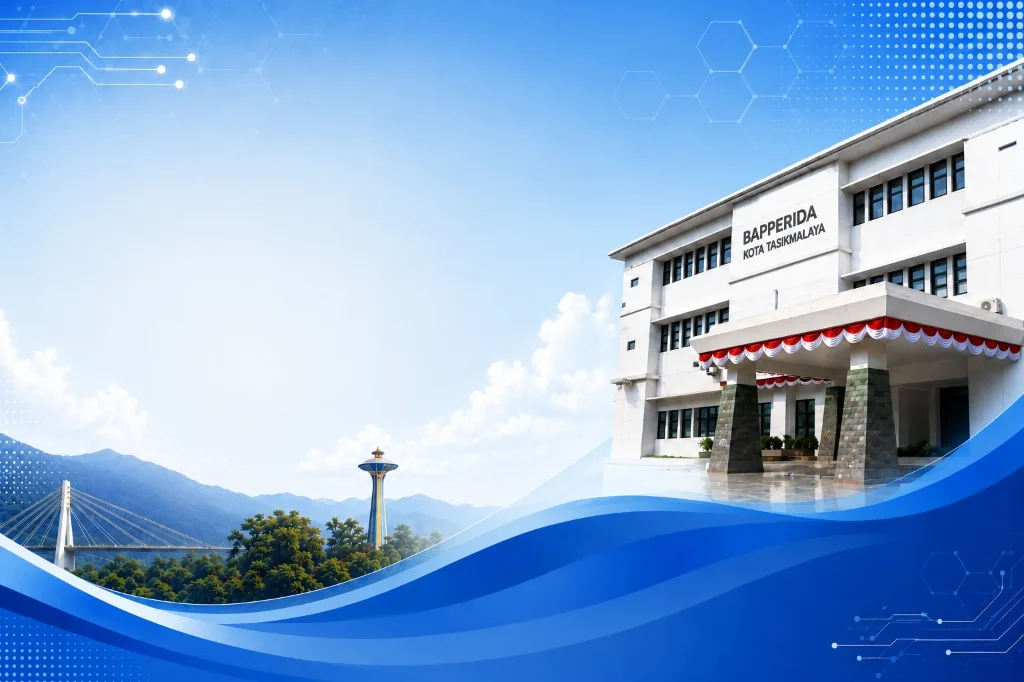
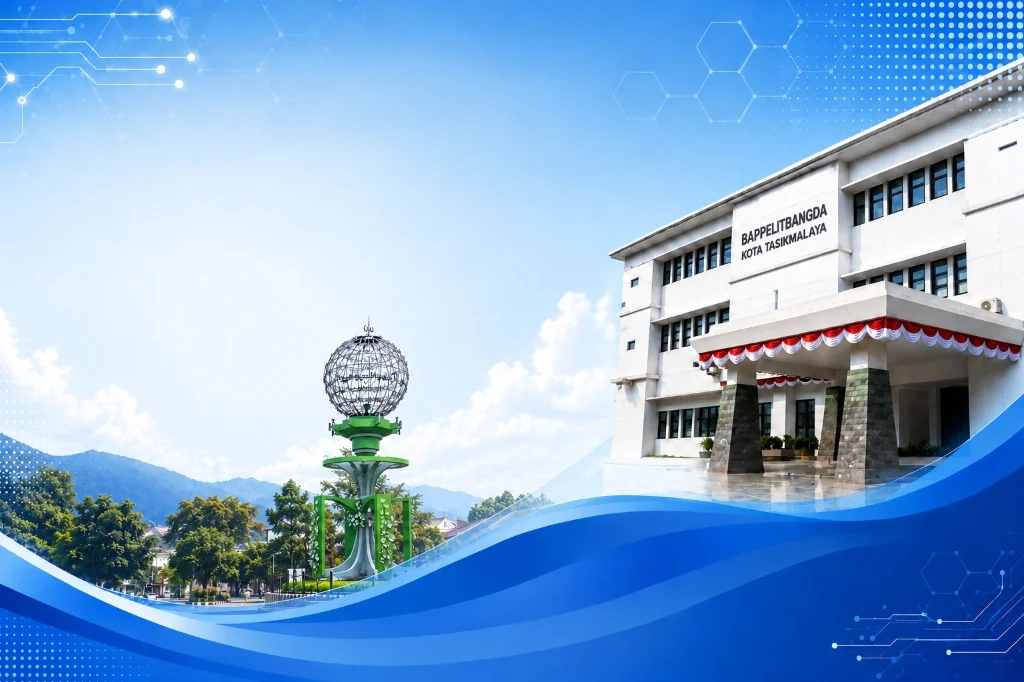
feat(ui): perbarui gambar background hero Bappelitbangda dan ubah seluruh penyebutan Bapperida menjadi Bappelitbangda

diff --git a/resources/views/user/tentang.blade.php b/resources/views/user/tentang.blade.php
@@ -210,7 +210,7 @@
             </h1>
 
             <p class="text-slate-500 text-sm sm:text-base leading-relaxed max-w-2xl mx-auto">
-                Platform integrasi publikasi riset, inovasi daerah, capaian indikator makro, dan penerapan Teknologi Tepat Guna (TTG) Bapperida Kota Tasikmalaya.
+                Platform integrasi publikasi riset, inovasi daerah, capaian indikator makro, dan penerapan Teknologi Tepat Guna (TTG) Bappelitbangda Kota Tasikmalaya.
             </p>
         </div>
 
@@ -285,11 +285,11 @@
                 </h2>
                 
                 <p class="text-slate-600 text-xs sm:text-sm leading-relaxed text-justify">
-                    <strong class="text-slate-800">SI RINOVA (Sistem Informasi Riset dan Inovasi)</strong> adalah wadah publikasi dan informasi terpadu Bapperida Kota Tasikmalaya yang dirancang untuk memfasilitasi riset ilmiah, dokumen kebijakan, data indikator makro, penerapan inovasi daerah, serta pelaksanaan kompetisi teknologi tepat guna.
+                    <strong class="text-slate-800">SI RINOVA (Sistem Informasi Riset dan Inovasi)</strong> adalah wadah publikasi dan informasi terpadu Bappelitbangda Kota Tasikmalaya yang dirancang untuk memfasilitasi riset ilmiah, dokumen kebijakan, data indikator makro, penerapan inovasi daerah, serta pelaksanaan kompetisi teknologi tepat guna.
                 </p>
 
                 <p class="text-slate-600 text-xs sm:text-sm leading-relaxed text-justify">
-                    Platform ini menyajikan enam menu layanan utama: <span class="text-[#00A3E0] font-semibold">Capaian Indikator Makro</span>, <span class="text-[#00A3E0] font-semibold">Katalog Alat Teknologi Tepat Guna (TTG)</span>, <span class="text-[#00A3E0] font-semibold">Repositori E-Book Kajian</span>, <span class="text-[#00A3E0] font-semibold">Naskah Telaahan Staf</span>, <span class="text-[#00A3E0] font-semibold">Dokumentasi Galeri Kegiatan</span>, serta <span class="text-amber-600 font-semibold">Pendaftaran Lomba Inovasi TTG</span> Bapperida Kota Tasikmalaya.
+                    Platform ini menyajikan enam menu layanan utama: <span class="text-[#00A3E0] font-semibold">Capaian Indikator Makro</span>, <span class="text-[#00A3E0] font-semibold">Katalog Alat Teknologi Tepat Guna (TTG)</span>, <span class="text-[#00A3E0] font-semibold">Repositori E-Book Kajian</span>, <span class="text-[#00A3E0] font-semibold">Naskah Telaahan Staf</span>, <span class="text-[#00A3E0] font-semibold">Dokumentasi Galeri Kegiatan</span>, serta <span class="text-amber-600 font-semibold">Pendaftaran Lomba Inovasi TTG</span> Bappelitbangda Kota Tasikmalaya.
                 </p>
 
                 <!-- Feature Badges -->
@@ -569,7 +569,7 @@
 
                 <div class="space-y-2">
                     <!-- Alamat -->
-                    <a href="https://maps.google.com/?q=BAPPERIDA+KOTA+TASIKMALAYA" target="_blank"
+                    <a href="https://maps.google.com/?q=BAPPELITBANGDA+KOTA+TASIKMALAYA" target="_blank"
                        class="flex items-start gap-3.5 p-2.5 -mx-2 rounded-2xl hover:bg-sky-50/70 border border-transparent hover:border-sky-100 transition-all duration-300 group">
                         <div class="w-9 h-9 bg-sky-50 group-hover:bg-[#00A3E0] rounded-xl flex items-center justify-center text-[#00A3E0] group-hover:text-white shrink-0 transition-colors">
                             <span class="material-symbols-outlined text-lg">location_on</span>
@@ -605,7 +605,7 @@
                     </a>
 
                     <!-- WhatsApp -->
-                    <a href="https://wa.me/6281393515410?text=Halo%20Bapperida%20Kota%20Tasikmalaya," target="_blank"
+                    <a href="https://wa.me/6281393515410?text=Halo%20Bappelitbangda%20Kota%20Tasikmalaya," target="_blank"
                        class="flex items-start gap-3.5 p-2.5 -mx-2 rounded-2xl hover:bg-emerald-50/70 border border-transparent hover:border-emerald-100 transition-all duration-300 group">
                         <div class="w-9 h-9 bg-emerald-50 group-hover:bg-emerald-600 rounded-xl flex items-center justify-center text-emerald-600 group-hover:text-white shrink-0 transition-colors">
                             <svg class="w-4 h-4 fill-current" viewBox="0 0 24 24">
@@ -637,7 +637,7 @@
             <!-- Right Google Map Panel -->
             <div class="lg:col-span-7 bg-white rounded-3xl border border-slate-100 overflow-hidden shadow-[0_4px_20px_rgba(0,0,0,0.02)] min-h-[360px] relative reveal-right">
                 <iframe
-                    src="https://maps.google.com/maps?q=BAPPERIDA+KOTA+TASIKMALAYA,+Jl.+Ir.+H.+Juanda+No.191,+Bungursari,+Kota+Tasikmalaya&t=&z=16&ie=UTF8&iwloc=&output=embed"
+                    src="https://maps.google.com/maps?q=BAPPELITBANGDA+KOTA+TASIKMALAYA,+Jl.+Ir.+H.+Juanda+No.191,+Bungursari,+Kota+Tasikmalaya&t=&z=16&ie=UTF8&iwloc=&output=embed"
                     class="w-full h-full min-h-[360px] border-0"
                     allowfullscreen=""
                     loading="lazy"

diff --git a/resources/views/partials/footer.blade.php b/resources/views/partials/footer.blade.php
@@ -11,7 +11,7 @@
                 </span>
             </a>
             <p class="text-slate-500 leading-relaxed">
-                Bapperida Kota Tasikmalaya. Mendorong inovasi dan penerapan Teknologi Tepat Guna untuk
+                Bappelitbangda Kota Tasikmalaya. Mendorong inovasi dan penerapan Teknologi Tepat Guna untuk
                 kesejahteraan masyarakat.
             </p>
         </div>
@@ -86,7 +86,7 @@
             iconClass: 'bg-emerald-50 text-emerald-600',
             html: `
                 <div class="space-y-3">
-                    <p class="text-slate-600">Bapperida Kota Tasikmalaya berkomitmen penuh melindungi hak privasi setiap pengunjung portal SI RINOVA.</p>
+                    <p class="text-slate-600">Bappelitbangda Kota Tasikmalaya berkomitmen penuh melindungi hak privasi setiap pengunjung portal SI RINOVA.</p>
                     <div class="p-3.5 bg-emerald-50/60 border border-emerald-100 rounded-2xl space-y-1">
                         <strong class="text-emerald-800 block text-xs">1. Pengumpulan Informasi</strong>
                         <p class="text-slate-600 text-[11px] leading-relaxed">Informasi identitas (Nama, Email, Nomor WhatsApp) yang Anda berikan melalui formulir Kirim Pesan semata-mata digunakan untuk keperluan tindak lanjut komunikasi kedinasan dan konsultasi inovasi daerah.</p>
@@ -112,7 +112,7 @@
                     <p class="text-slate-600">Dengan mengakses portal SI RINOVA Kota Tasikmalaya, Anda menyetujui ketentuan pemanfaatan data berikut:</p>
                     <div class="p-3.5 bg-sky-50/60 border border-sky-100 rounded-2xl space-y-1">
                         <strong class="text-sky-900 block text-xs">1. Hak Cipta & Hak Kekayaan Intelektual</strong>
-                        <p class="text-slate-600 text-[11px] leading-relaxed">Inovasi Teknologi Tepat Guna (TTG) yang tercantum merupakan hak milik intelektual inovator bersangkutan yang difasilitasi dan dipublikasikan oleh Bapperida Kota Tasikmalaya.</p>
+                        <p class="text-slate-600 text-[11px] leading-relaxed">Inovasi Teknologi Tepat Guna (TTG) yang tercantum merupakan hak milik intelektual inovator bersangkutan yang difasilitasi dan dipublikasikan oleh Bappelitbangda Kota Tasikmalaya.</p>
                     </div>
                     <div class="p-3.5 bg-slate-50 border border-slate-100 rounded-2xl space-y-1">
                         <strong class="text-slate-800 block text-xs">2. Sitasi & Referensi Publikasi</strong>
@@ -151,7 +151,7 @@
                             <span class="material-symbols-outlined text-sm text-[#00A3E0]">send</span>
                             Ingin konsultasi atau mengajukan inovasi?
                         </strong>
-                        <p class="text-slate-600 text-[11px] leading-relaxed">Silakan kirimkan pesan melalui menu <a href="{{ route('public.tentang') }}#form-pesan" class="text-[#00A3E0] font-bold hover:underline" onclick="closeFooterModal()">Kirim Pesan</a> atau hubungi kontak resmi Bapperida Kota Tasikmalaya.</p>
+                        <p class="text-slate-600 text-[11px] leading-relaxed">Silakan kirimkan pesan melalui menu <a href="{{ route('public.tentang') }}#form-pesan" class="text-[#00A3E0] font-bold hover:underline" onclick="closeFooterModal()">Kirim Pesan</a> atau hubungi kontak resmi Bappelitbangda Kota Tasikmalaya.</p>
                     </div>
                 </div>
             `

diff --git a/resources/views/user/welcome.blade.php b/resources/views/user/welcome.blade.php
@@ -6,11 +6,11 @@
     <meta content="width=device-width, initial-scale=1.0" name="viewport">
     <title>SI RINOVA - Kota Tasikmalaya</title>
     <meta name="description"
-        content="Katalog Resmi Teknologi Tepat Guna (TTG) Bapperida Kota Tasikmalaya. Mendorong inovasi untuk masyarakat.">
+        content="Katalog Resmi Teknologi Tepat Guna (TTG) Bappelitbangda Kota Tasikmalaya. Mendorong inovasi untuk masyarakat.">
 
     <!-- OpenGraph Meta Tags (WhatsApp, Facebook, Twitter Sharing) -->
-    <meta property="og:title" content="SI-RINOVA - Bapperida Kota Tasikmalaya">
-    <meta property="og:description" content="Sistem Informasi Riset, Indikator Makro, Katalog & Lomba Inovasi TTG, Repositori Kajian, serta Inovasi Bapperida Kota Tasikmalaya.">
+    <meta property="og:title" content="SI-RINOVA - Bappelitbangda Kota Tasikmalaya">
+    <meta property="og:description" content="Sistem Informasi Riset, Indikator Makro, Katalog & Lomba Inovasi TTG, Repositori Kajian, serta Inovasi Bappelitbangda Kota Tasikmalaya.">
     <meta property="og:image" content="{{ asset('storage/images/bappelitbangda_building.png') }}">
     <meta property="og:type" content="website">
 
@@ -26,7 +26,7 @@
     <link rel="dns-prefetch" href="https://cdn.tailwindcss.com">
 
     <!-- Preload Critical LCP Hero Image (Langsung mengunduh gambar gedung sejak awal) -->
-    <link rel="preload" as="image" href="{{ asset('images/hero-bg.jpg') }}?v=3" fetchpriority="high">
+    <link rel="preload" as="image" href="{{ asset('images/hero-bg.jpg') }}?v=4" fetchpriority="high">
 
     <!-- Tailwind CSS -->
     <script src="https://cdn.tailwindcss.com"></script>
@@ -64,7 +64,7 @@
         }
 
         .bg-hero {
-            background-image: url("{{ asset('images/hero-bg.jpg') }}?v=3");
+            background-image: url("{{ asset('images/hero-bg.jpg') }}?v=4");
             background-size: cover;
             background-position: center right;
         }
@@ -435,7 +435,7 @@
                     </h1>
                     <p
                         class="animate-hero-subtitle text-slate-100 text-xs sm:text-base leading-relaxed font-normal opacity-90 line-clamp-2 sm:line-clamp-none">
-                        Wadah integrasi publikasi riset, capaian indikator makro, katalog & lomba inovasi TTG, repositori kajian, serta inovasi Bapperida Kota Tasikmalaya.
+                        Wadah integrasi publikasi riset, capaian indikator makro, katalog & lomba inovasi TTG, repositori kajian, serta inovasi Bappelitbangda Kota Tasikmalaya.
                     </p>
 
                     <!-- CTA Buttons (Symmetrical 2-Column Grid on Mobile & Desktop) -->

diff --git a/resources/views/user/lomba/daftar.blade.php b/resources/views/user/lomba/daftar.blade.php
@@ -881,7 +881,7 @@
                 <div class="flex items-start gap-3">
                     <input type="checkbox" id="setuju" required class="mt-1 h-4 w-4 rounded border-slate-300 text-[#00A3E0] focus:ring-[#00A3E0]">
                     <label for="setuju" class="text-xs text-slate-600 leading-relaxed cursor-pointer select-none">
-                        Saya menyatakan bahwa karya inovasi teknologi tepat guna yang didaftarkan adalah karya asli tim kami, bebas dari plagiasi, dan bersedia mengikuti seluruh ketentuan perlombaan yang ditetapkan oleh Bapperida Kota Tasikmalaya.
+                        Saya menyatakan bahwa karya inovasi teknologi tepat guna yang didaftarkan adalah karya asli tim kami, bebas dari plagiasi, dan bersedia mengikuti seluruh ketentuan perlombaan yang ditetapkan oleh Bappelitbangda Kota Tasikmalaya.
                     </label>
                 </div>
 
@@ -1001,7 +1001,7 @@
 
             <!-- Title & Subtitle -->
             <h3 class="text-xl font-black text-slate-900 tracking-tight">Pendaftaran Berhasil Dikirim!</h3>
-            <p class="text-xs text-slate-500 mt-1">Karya inovasi teknologi tepat guna Anda telah sukses diajukan ke panitia lomba Bapperida.</p>
+            <p class="text-xs text-slate-500 mt-1">Karya inovasi teknologi tepat guna Anda telah sukses diajukan ke panitia lomba Bappelitbangda.</p>
 
             <!-- Card Summary Info -->
             <div class="bg-slate-50/90 rounded-2xl p-4 my-5 border border-slate-200/70 text-left space-y-3">

diff --git a/resources/views/user/lomba/index.blade.php b/resources/views/user/lomba/index.blade.php
@@ -4,7 +4,7 @@
     <meta charset="utf-8">
     <meta content="width=device-width, initial-scale=1.0" name="viewport">
     <title>Lomba Teknologi Tepat Guna (TTG) - SI RINOVA Kota Tasikmalaya</title>
-    <meta name="description" content="Informasi dan Pendaftaran Resmi Lomba Inovasi Alat Teknologi Tepat Guna (TTG) Bapperida Kota Tasikmalaya. Kategori Pelajar SMA/SMK, Perguruan Tinggi, dan Umum.">
+    <meta name="description" content="Informasi dan Pendaftaran Resmi Lomba Inovasi Alat Teknologi Tepat Guna (TTG) Bappelitbangda Kota Tasikmalaya. Kategori Pelajar SMA/SMK, Perguruan Tinggi, dan Umum.">
 
     <!-- Favicon Logo Tasikmalaya -->
     <link rel="icon" type="image/png" href="{{ asset('storage/images/favicon_tasik.png') }}?v=3">
@@ -583,7 +583,7 @@
                     <span class="inline-flex items-center justify-center w-8 h-8 rounded-full bg-emerald-600 text-white font-black text-sm">4</span>
                     <h3 class="text-base font-bold text-slate-900">Verifikasi & Penilaian</h3>
                     <p class="text-xs text-slate-600 leading-relaxed">
-                        Pantau status administrasi dan evaluasi dewan juri Bapperida langsung dari dashboard status Anda.
+                        Pantau status administrasi dan evaluasi dewan juri Bappelitbangda langsung dari dashboard status Anda.
                     </p>
                 </div>
             </div>

diff --git a/resources/views/admin/lomba/akun_pdf.blade.php b/resources/views/admin/lomba/akun_pdf.blade.php
@@ -2,7 +2,7 @@
 <html lang="id">
 <head>
     <meta charset="utf-8">
-    <title>Rekapitulasi Akun Peserta Lomba TTG - Bapperida Kota Tasikmalaya</title>
+    <title>Rekapitulasi Akun Peserta Lomba TTG - Bappelitbangda Kota Tasikmalaya</title>
     <style>
         @page {
             size: A4 landscape;
@@ -171,7 +171,7 @@
         <tr>
             <td style="border: none; width: 65%;">
                 <div style="font-size: 7.5pt; color: #94a3b8;">
-                    Dokumen ini diunduh secara resmi melalui Panel Admin SI-RINOVA Bapperida Kota Tasikmalaya.
+                    Dokumen ini diunduh secara resmi melalui Panel Admin SI-RINOVA Bappelitbangda Kota Tasikmalaya.
                 </div>
             </td>
             <td style="border: none; width: 35%;">
@@ -179,7 +179,7 @@
                     <p style="margin: 0;">Kota Tasikmalaya, {{ \Carbon\Carbon::now()->translatedFormat('d F Y') }}</p>
                     <p style="margin: 4px 0 0 0; font-weight: bold;">Panitia Lomba Inovasi TTG</p>
                     <div style="height: 55px;"></div>
-                    <p style="margin: 0; font-weight: bold; text-decoration: underline;">Bapperida Kota Tasikmalaya</p>
+                    <p style="margin: 0; font-weight: bold; text-decoration: underline;">Bappelitbangda Kota Tasikmalaya</p>
                 </div>
             </td>
         </tr>

diff --git a/resources/views/admin/lomba/pdf.blade.php b/resources/views/admin/lomba/pdf.blade.php
@@ -2,7 +2,7 @@
 <html lang="id">
 <head>
     <meta charset="utf-8">
-    <title>Rekapitulasi Pendaftaran Lomba TTG - Bapperida Kota Tasikmalaya</title>
+    <title>Rekapitulasi Pendaftaran Lomba TTG - Bappelitbangda Kota Tasikmalaya</title>
     <style>
         @page {
             size: A4 landscape;
@@ -200,7 +200,7 @@
         <tr>
             <td style="border: none; width: 65%;">
                 <div style="font-size: 7.5pt; color: #94a3b8;">
-                    Dokumen ini diunduh secara resmi melalui Panel Admin SI-RINOVA Bapperida Kota Tasikmalaya.
+                    Dokumen ini diunduh secara resmi melalui Panel Admin SI-RINOVA Bappelitbangda Kota Tasikmalaya.
                 </div>
             </td>
             <td style="border: none; width: 35%;">
@@ -208,7 +208,7 @@
                     <p style="margin: 0;">Kota Tasikmalaya, {{ \Carbon\Carbon::now()->translatedFormat('d F Y') }}</p>
                     <p style="margin: 4px 0 0 0; font-weight: bold;">Panitia Lomba Inovasi TTG</p>
                     <div style="height: 55px;"></div>
-                    <p style="margin: 0; font-weight: bold; text-decoration: underline;">Bapperida Kota Tasikmalaya</p>
+                    <p style="margin: 0; font-weight: bold; text-decoration: underline;">Bappelitbangda Kota Tasikmalaya</p>
                 </div>
             </td>
         </tr>

diff --git a/resources/views/user/galeri/index.blade.php b/resources/views/user/galeri/index.blade.php
@@ -9,7 +9,7 @@
     <link rel="icon" type="image/png" href="{{ asset('storage/images/favicon_tasik.png') }}?v=3">
     <link rel="shortcut icon" type="image/x-icon" href="{{ asset('favicon.ico') }}?v=3">
     <link rel="apple-touch-icon" href="{{ asset('storage/images/favicon_tasik.png') }}?v=3">
-    <meta name="description" content="Dokumentasi foto kegiatan, pameran, dan sosialisasi Teknologi Tepat Guna (TTG) Bapperida Kota Tasikmalaya.">
+    <meta name="description" content="Dokumentasi foto kegiatan, pameran, dan sosialisasi Teknologi Tepat Guna (TTG) Bappelitbangda Kota Tasikmalaya.">
 
     <!-- Google Fonts -->
     <link rel="preconnect" href="https://fonts.googleapis.com">
@@ -206,7 +206,7 @@
                     Galeri <span class="text-[#29abe2]">Kegiatan & Dokumentasi</span>
                 </h1>
                 <p class="text-slate-500 text-sm sm:text-base leading-relaxed max-w-2xl mx-auto">
-                    Dokumentasi ragam aktivitas, pameran inovasi, bimbingan teknis, serta pendampingan Teknologi Tepat Guna oleh Bapperida Kota Tasikmalaya.
+                    Dokumentasi ragam aktivitas, pameran inovasi, bimbingan teknis, serta pendampingan Teknologi Tepat Guna oleh Bappelitbangda Kota Tasikmalaya.
                 </p>
             </div>
 

diff --git a/database/seeders/GaleriSeeder.php b/database/seeders/GaleriSeeder.php
@@ -38,13 +38,13 @@ class GaleriSeeder extends Seeder
                 'judul'            => 'Monitoring & Evaluasi Alat TTG Bidang Pertanian dan Peternakan',
                 'tanggal_kegiatan' => '2024-07-10',
                 'lokasi'           => 'Kecamatan Kawalu, Kota Tasikmalaya',
-                'deskripsi'        => 'Pendataan serta evaluasi efektivitas penggunaan alat pembuat pakan ternak otomatis oleh Tim Bapperida Kota Tasikmalaya.',
+                'deskripsi'        => 'Pendataan serta evaluasi efektivitas penggunaan alat pembuat pakan ternak otomatis oleh Tim Bappelitbangda Kota Tasikmalaya.',
                 'status'           => 'Dipublikasikan',
             ],
             [
                 'judul'            => 'Penyerahan Bantuan Alat Mesin Pengolah Produk Hasil Olahan Pangan',
                 'tanggal_kegiatan' => '2024-08-05',
-                'lokasi'           => 'Aula Bapperida Kota Tasikmalaya',
+                'lokasi'           => 'Aula Bappelitbangda Kota Tasikmalaya',
                 'deskripsi'        => 'Penyerahan bantuan unit alat Spinner Peniris Minyak kepada UMKM dan Inovator lokal untuk meningkatkan kualitas kemasan produk unggulan.',
                 'status'           => 'Dipublikasikan',
             ],

diff --git a/app/Notifications/AdminResetPasswordNotification.php b/app/Notifications/AdminResetPasswordNotification.php
@@ -46,10 +46,10 @@ class AdminResetPasswordNotification extends Notification
         return (new MailMessage)
             ->subject('Permintaan Reset Kata Sandi Administrator - SI RINOVA')
             ->greeting("Halo, {$namaAdmin}")
-            ->line('Kami menerima permintaan untuk mengatur ulang kata sandi akun Administrator Anda pada sistem SI RINOVA Bapperida Kota Tasikmalaya.')
+            ->line('Kami menerima permintaan untuk mengatur ulang kata sandi akun Administrator Anda pada sistem SI RINOVA Bappelitbangda Kota Tasikmalaya.')
             ->action('Atur Ulang Kata Sandi', $this->resetUrl)
             ->line("Tautan pemulihan kata sandi ini bersifat rahasia, hanya dapat digunakan satu kali, dan akan kedaluwarsa dalam waktu {$expireMinutes} menit.")
             ->line('Jika Anda tidak merasa melakukan permintaan ini, abaikan email ini. Kata sandi akun Anda tidak akan berubah.')
-            ->salutation("Salam hormat,\nTim Bapperida Kota Tasikmalaya");
+            ->salutation("Salam hormat,\nTim Bappelitbangda Kota Tasikmalaya");
     }
 }

diff --git a/resources/views/admin/lomba/show.blade.php b/resources/views/admin/lomba/show.blade.php
@@ -125,7 +125,7 @@
                                             $cleanPhone = '62' . substr($cleanPhone, 1);
                                         }
                                     @endphp
-                                    <a href="https://wa.me/{{ $cleanPhone }}?text=Halo%20{{ urlencode($item->nama_inovator) }},%20kami%20dari%20Panitia%20Lomba%20TTG%20Bapperida%20Kota%20Tasikmalaya..." target="_blank" 
+                                    <a href="https://wa.me/{{ $cleanPhone }}?text=Halo%20{{ urlencode($item->nama_inovator) }},%20kami%20dari%20Panitia%20Lomba%20TTG%20Bappelitbangda%20Kota%20Tasikmalaya..." target="_blank" 
                                        class="inline-flex items-center gap-1 px-2.5 py-1 bg-emerald-600 hover:bg-emerald-700 active:scale-[0.98] text-white rounded-lg font-bold text-[10px] shadow-2xs transition-all cursor-pointer">
                                         <span class="material-symbols-outlined text-xs">chat</span> Chat WA
                                     </a>

diff --git a/resources/views/admin/pesan/show.blade.php b/resources/views/admin/pesan/show.blade.php
@@ -162,7 +162,7 @@
                             }
                         @endphp
                         <!-- Balas via WhatsApp -->
-                        <a href="https://wa.me/{{ $waNum }}?text={{ urlencode('Halo ' . $pesan->nama . ', kami dari Bapperida Kota Tasikmalaya menindaklanjuti pesan Anda terkait: ' . $pesan->subjek) }}"
+                        <a href="https://wa.me/{{ $waNum }}?text={{ urlencode('Halo ' . $pesan->nama . ', kami dari Bappelitbangda Kota Tasikmalaya menindaklanjuti pesan Anda terkait: ' . $pesan->subjek) }}"
                             target="_blank"
                             class="bg-emerald-600 hover:bg-emerald-700 text-white px-5 py-2.5 rounded-md transition-colors flex items-center gap-2 font-medium text-sm shadow-sm">
                             <span class="material-symbols-outlined text-[18px]">chat</span> Balas via WhatsApp
